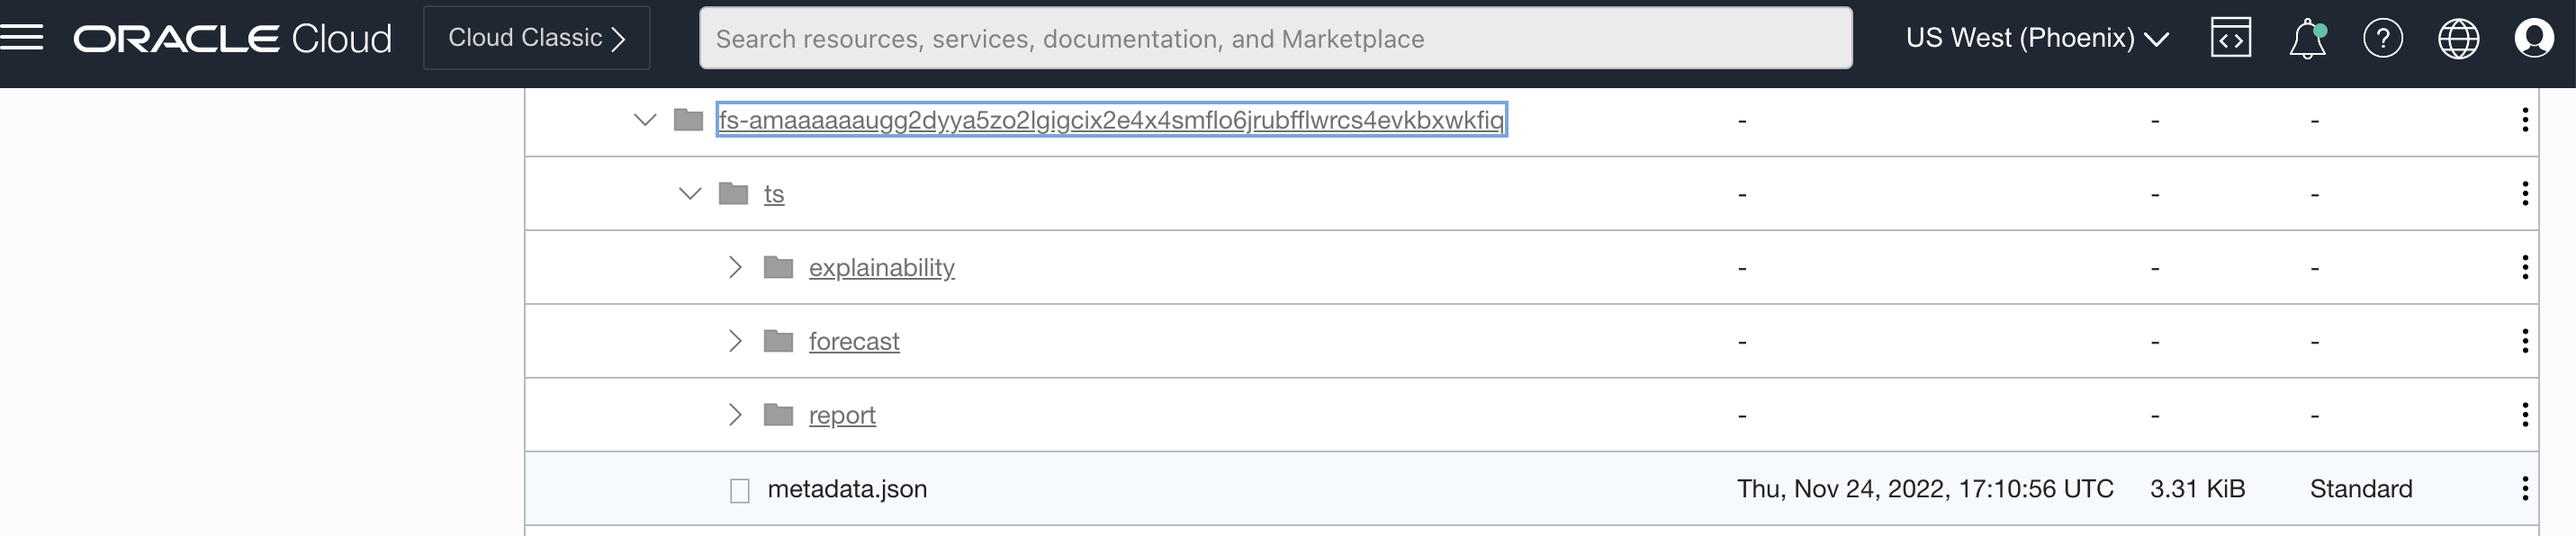
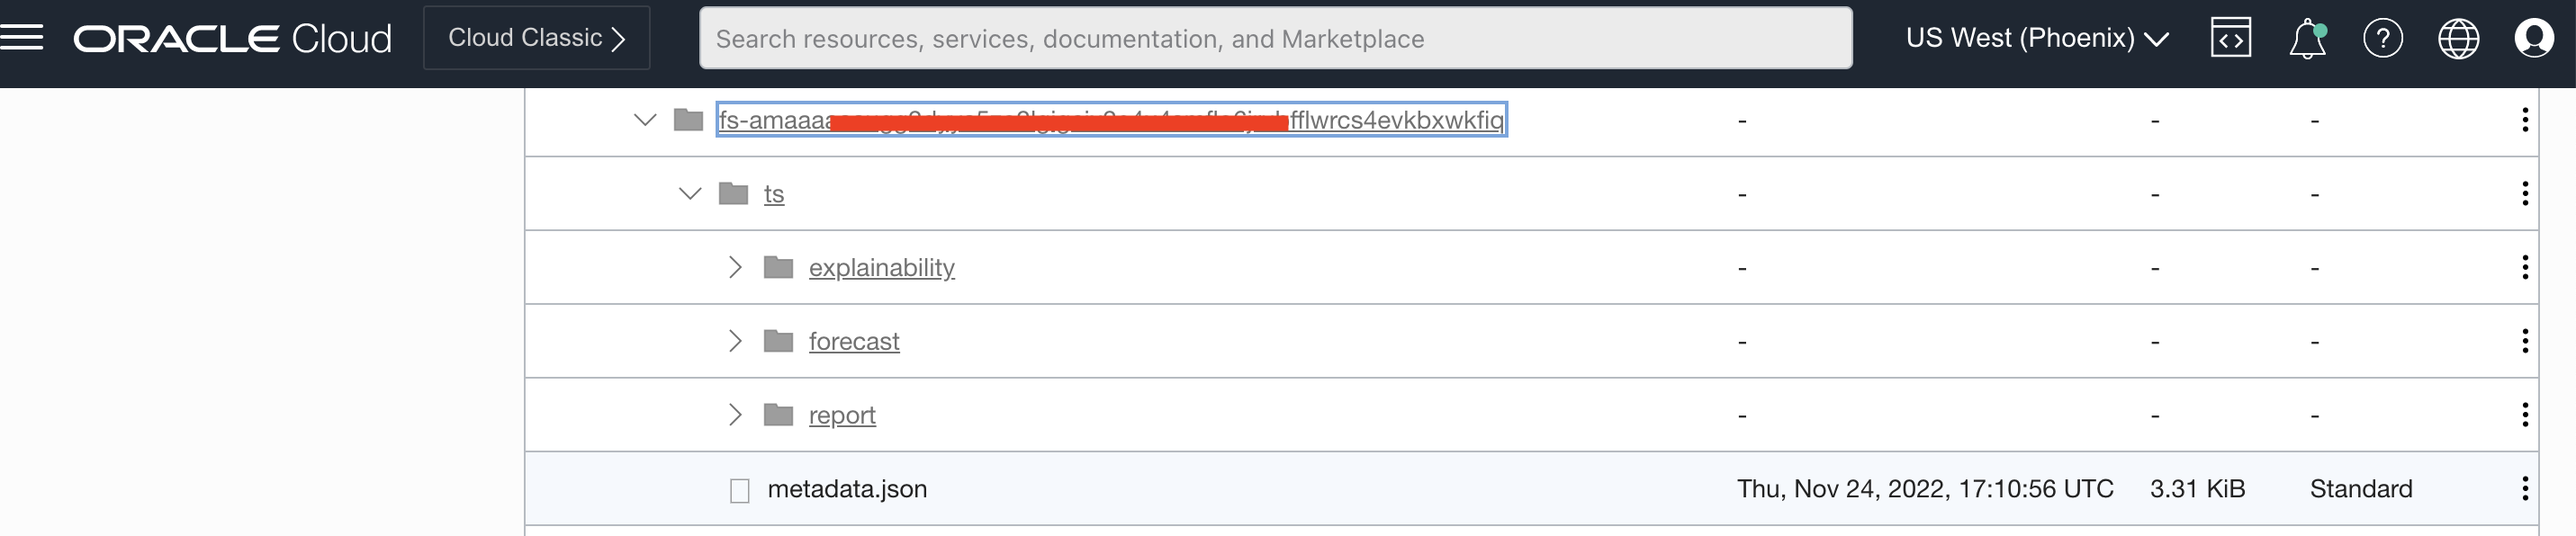
update download folders

Changed region(s): [[0.311, 0.2114, 0.4976, 0.2718]]

diff --git a/oci-artificial-intelligence/forecasting-service/item-3-forecast-with-console/item-3-forecast-with-console.md b/oci-artificial-intelligence/forecasting-service/item-3-forecast-with-console/item-3-forecast-with-console.md
@@ -476,12 +476,12 @@ If you wish to only try **Use Case with Primary, Additional and Meta Data** , sk
     - **explanation\_results\_local.csv**: Local Explainability
 
 3. You can also download the files from bucket where you have your uploaded your input csv files
-       - The folder name in the bucket is of format as below:
+       - The folder name in the bucket is of format as ***fs-{last_string_of_ocid}***
 
-            `***fs-{last_string_of_ocid}***`
+       - For eg: if your ocid is 
+       ***ocid1.aiforecast.oc1.phx.amaaaaaaugxxxxxxxxxx4smflo6jrubfflwrcs4evkbxwkfiq***,
+       then files will be in ***fs-amaaaaaaugxxxxxxxxxx4smflo6jrubfflwrcs4evkbxwkfiq*** folder
 
-       - For eg: if your ocid is `ocid1.aiforecast.oc1.phx.amaaaaaaug************x4smflo6jrubfflwrcs4evkbxwkfiq`,
-       then files will be in `fs-amaaaaaaug************x4smflo6jrubfflwrcs4evkbxwkfiq` folder
      ![](images/lab5-task10-results-object-storage.png " ")
 
     - **explainability**:  Explainability files for each series    
@@ -592,12 +592,11 @@ We will use the data already uploaded in bucket in *Task 4* above
         - **explanation\_results\_global.csv**: Global Explainability - But will be empty until explainabiltiy is made available for PROBRNN, Apollonet and EFE 
         - **explanation\_results\_local.csv**: Local Explainability - But will be empty until explainabiltiy is made available for PROBRNN, Apollonet and EFE 
     - You can also download the files from bucket where you have your uploaded your input csv files
-       - The folder name in the bucket is of format as below:
+       - The folder name in the bucket is of format as ***fs-{last_string_of_ocid}***
 
-            `***fs-{last_string_of_ocid}***`
-
-       - For eg: if your ocid is `ocid1.aiforecast.oc1.phx.amaaaaaaug************x4smflo6jrubfflwrcs4evkbxwkfiq`,
-       then files will be in `fs-amaaaaaaug************x4smflo6jrubfflwrcs4evkbxwkfiq` folder
+       - For eg: if your ocid is 
+       ***ocid1.aiforecast.oc1.phx.amaaaaaaugxxxxxxxxxx4smflo6jrubfflwrcs4evkbxwkfiq***,
+       then files will be in ***fs-amaaaaaaugxxxxxxxxxx4smflo6jrubfflwrcs4evkbxwkfiq*** folder
 
         ![](images/lab5-task10-results-object-storage.png " ")
 
